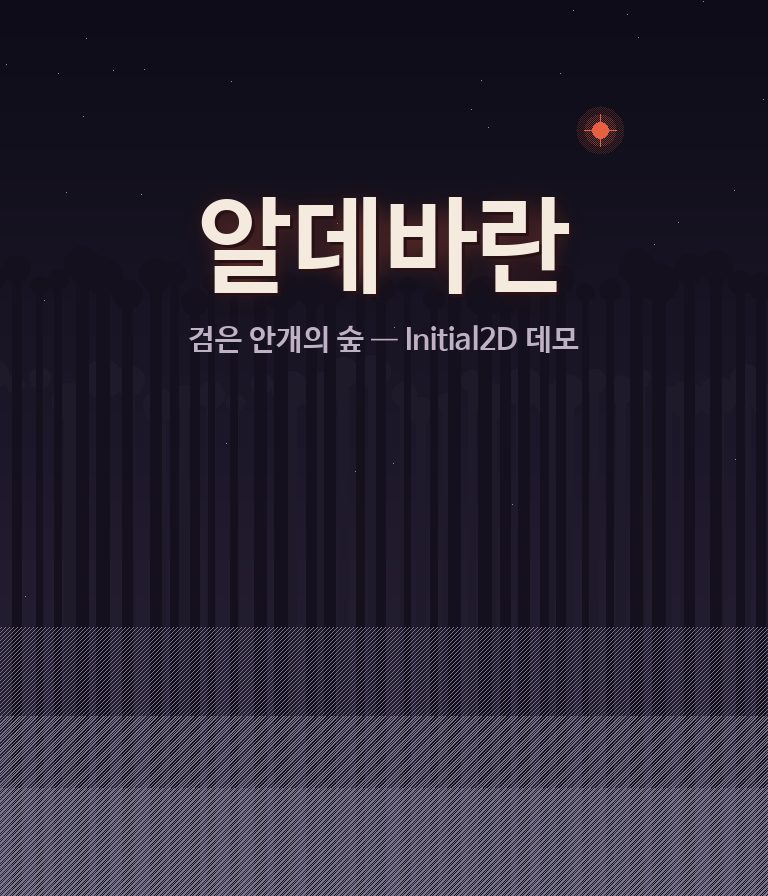
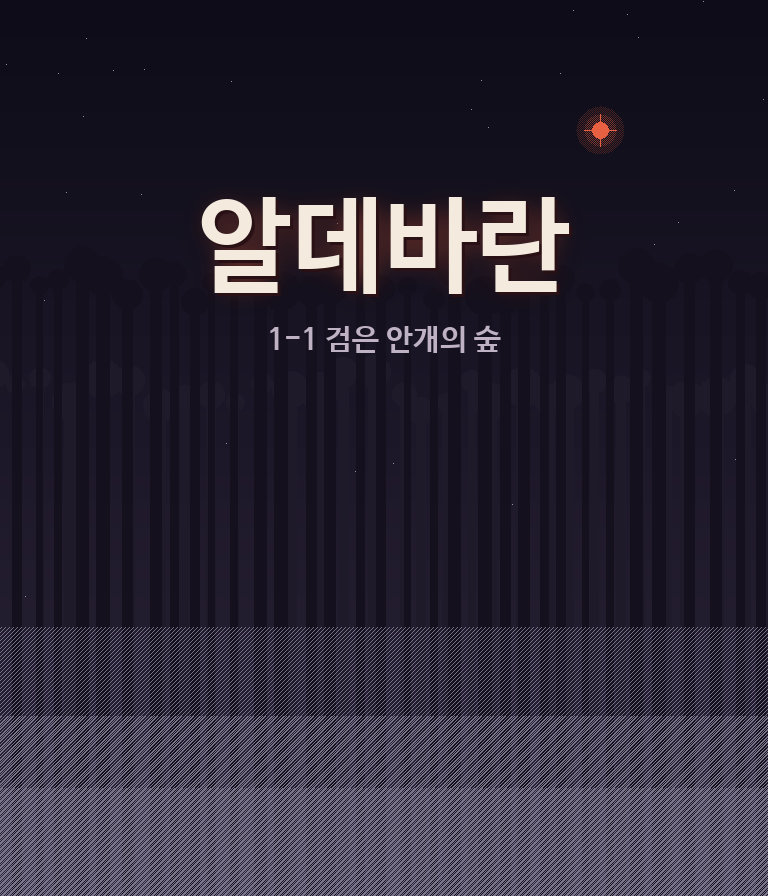
feat: the game boots straight into Aldebaran, and the demo picker is gone
This repository ships one game now. Running the binary opens the Aldebaran
title; the mini-game list that used to greet the player is deleted, and the
title's ESC and its 나가기 item quit instead of going back to a hub.

The other three scenes stay in the tree because they are what proves the
engine is genre-neutral, and because the RPG demo is still the acceptance
test for phases 8 through 10. They are simply not in the game's flow any
more: INITIAL2D_SCENE=flappy (or tilemap, or title) opens them directly,
and each one now exits on ESC since it is its own entry point.

The title art carried a subtitle calling itself a demo; it now reads
1-1 검은 안개의 숲. Goldens and the README follow.

Verified: full suite green.

Changed region(s): [[0.25, 0.3438, 0.75, 0.4062]]

diff --git a/tools/generate_aldebaran_assets.py b/tools/generate_aldebaran_assets.py
@@ -22,7 +22,7 @@
   resources/aldebaran/hud.png        HUD 막대와 아이콘
   resources/audio/aldebaran_*.wav    효과음
 
-아랫줄(왼쪽 보기)은 오른쪽 보기를 미러링해 굽는다 — 엔진에 좌우 반전이 없다.
+아랫줄(왼쪽 보기)은 오른쪽 보기를 미러링해 굽는다 (엔진에 좌우 반전이 없다).
 
 Usage: python3 tools/generate_aldebaran_assets.py
 Requires: Pillow
@@ -757,7 +757,7 @@ def make_title():
     img.alpha_composite(g)
     d.text((387, 253), "알데바란", font=big, fill=(40, 16, 20, 220), anchor="mm")
     d.text((384, 250), "알데바란", font=big, fill=(244, 234, 222, 255), anchor="mm")
-    d.text((384, 340), "검은 안개의 숲 — Initial2D 데모", font=small,
+    d.text((384, 340), "1-1 검은 안개의 숲", font=small,
            fill=(190, 178, 196, 255), anchor="mm")
     save(img.convert("RGB"), TITLES, "aldebaran_title.png")
 

diff --git a/README.md b/README.md
@@ -27,19 +27,21 @@
 
 이 엔진으로 만든 **횡스크롤 액션** 게임입니다. 엔진 코드는 손대지 않고, 물리와 충돌과 전투를 전부 `scripts/games/aldebaran/`의 Lua로 작성했습니다.
 
-보물 사냥꾼 카르토가 금단의 숲 알데바란에서 가면 원숭이에게 배낭과 지도를 빼앗기고, 검은 안개의 숲을 헤쳐 그것을 되찾는 한 판(3~5분)입니다. 원안은 저자의 기획서 「스피카」(Spica_v0.9)이며, 데모 분량으로 정돈한 기획서가 [docs/design/aldebaran.md](./docs/design/aldebaran.md)에 있습니다. 게임을 실행하면 나오는 목록에서 **알데바란**을 고르면 타이틀이 뜹니다.
+보물 사냥꾼 카르토가 금단의 숲 알데바란에서 가면 원숭이에게 배낭과 지도를 빼앗기고, 검은 안개의 숲을 헤쳐 그것을 되찾는 한 판(3~5분)입니다. 원안은 저자의 기획서 「스피카」(Spica_v0.9)이며, 데모 분량으로 정돈한 기획서가 [docs/design/aldebaran.md](./docs/design/aldebaran.md)에 있습니다. `./build/Initial2D`를 실행하면 타이틀이 바로 뜹니다.
 
 | 검은 안개의 숲, 늑대 인간과의 전투 | 공터의 짐도둑과 돌팔매 |
 | :---: | :---: |
 | ![알데바란 전투](./docs/img/aldebaran_fight.png) | ![알데바란 짐도둑](./docs/img/aldebaran_boss.png) |
 
 ```bash
-# 타이틀부터 바로 열기
-INITIAL2D_SCENE=aldebaran_title ./build/Initial2D
+# 실행하면 타이틀부터 시작합니다
+./build/Initial2D
 
 # 스테이지 바로 열기 (도입 컷씬 생략, 좌표 표시)
 INITIAL2D_SCENE=aldebaran INITIAL2D_SKIP_INTRO=1 INITIAL2D_DEBUG=1 ./build/Initial2D
 ```
+
+엔진이 장르에 중립이라는 것을 보이는 데모 셋(플래피 버드, 타일맵, 떠나기 전에)이 저장소에 남아 있지만 게임의 흐름에는 들어 있지 않습니다. `INITIAL2D_SCENE=flappy` 처럼 이름을 주면 그 씬으로 바로 열립니다.
 
 | 조작 | PC | 모바일 |
 | :--- | :--- | :--- |
@@ -835,7 +837,7 @@ python3 tools/generate_ui_assets.py
 
 # 데모 게임: 떠나기 전에
 
-앞의 요소를 전부 사용하는 짧은 데모입니다. 미니 게임 목록에서 **떠나기 전에**를 고르면 타이틀이 뜨고, 시작하면 항구 마을에 내린 여행자가 됩니다. 저녁 배가 뜰 때까지 마을을 둘러보고, 떠날지 하루 더 머물지 스스로 정하면 끝납니다. 3분이면 끝낼 수 있고 전부 보면 10분입니다. 같은 빌드에서 플래피 버드도 그대로 돌아갑니다. "한 엔진에서 두 장르"가 이 데모의 요점입니다.
+앞의 요소를 전부 사용하는 짧은 데모입니다. 게임 본편은 아니며 `INITIAL2D_SCENE=title`로 엽니다. 타이틀에서 시작하면 항구 마을에 내린 여행자가 됩니다. 저녁 배가 뜰 때까지 마을을 둘러보고, 떠날지 하루 더 머물지 스스로 정하면 끝납니다. 3분이면 끝낼 수 있고 전부 보면 10분입니다. 같은 빌드에서 플래피 버드와 알데바란도 그대로 돌아갑니다. "한 엔진에서 세 장르"가 이 데모들의 요점입니다.
 
 마을 사람 다섯은 하나의 심부름으로 이어져 있습니다. 생선 장수에게 창고의 사연을 듣고, 여관 주인에게 열쇠를 받고, 창고에서 등유를 꺼내 등대지기에게 가져다 주면, 그날 밤 등대에 불이 켜지고 여관에 묵을 은화가 생깁니다. 하지만 사슬은 강제가 아닙니다. 언제든 부두로 내려가 배를 타면 그대로 끝납니다. 본 만큼 에필로그에 줄이 붙습니다.
 
